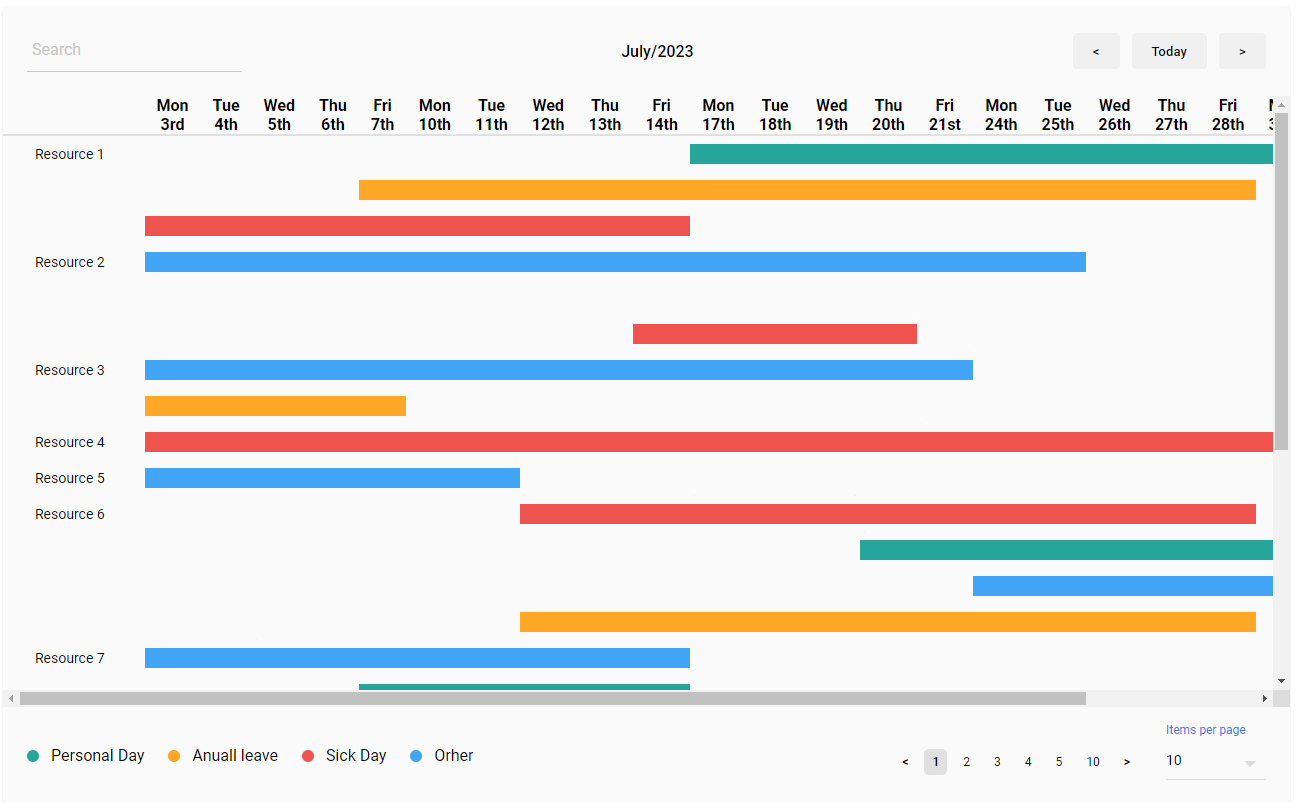
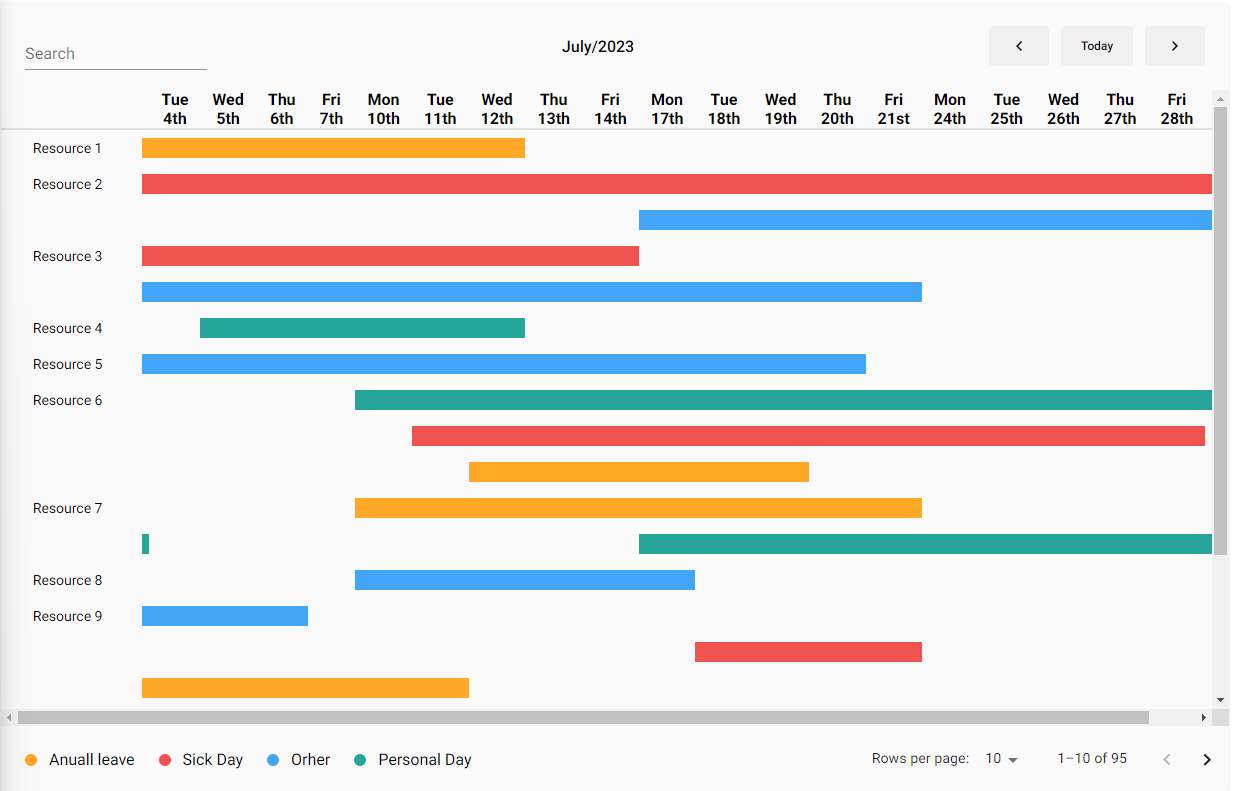
readme

diff --git a/README.md b/README.md
@@ -20,9 +20,16 @@ No dependancies used
 - It is the responsibility of the user to determine how to interact with the data during these events.
 
 ```
+import React, { useMemo, useState } from 'react'
+import { resources } from './data'
+import { MonthYear, EventManager, ClickData, Page, Resource } from './'
+// These components can be anything that you want
+import { TextField } from '@mui/material'
+import { TablePagination } from '@mui/material'
+
 function App() {
   const [page, setPage] = useState<Page>({
-    current: 1,
+    current: 0,
     size: 10,
     count: Math.ceil(resources.length / 10),
     total: resources.length,
@@ -36,8 +43,8 @@ function App() {
     setLoading(true)
     setTimeout(() => {
       const data = resources.slice(
-        (page.current - 1) * page.size,
         page.current * page.size,
+        (page.current + 1) * page.size,
       )
       setData(data)
       setLoading(false)
@@ -56,9 +63,16 @@ function App() {
     console.log(text)
   }
 
-  const handlePageChange = (page: Page) => {
-    setPage(page)
-    console.log(page)
+  const handleChangePage = (
+    event: React.MouseEvent<HTMLButtonElement, MouseEvent> | null,
+    newPage: number,
+  ) => {
+    setPage({ ...page, current: newPage })
+  }
+  const handleChangeRowsPerPage = (
+    e: React.ChangeEvent<HTMLInputElement | HTMLTextAreaElement>,
+  ) => {
+    setPage({ ...page, size: Number(e.target.value) })
   }
 
   return (
@@ -66,7 +80,6 @@ function App() {
       <EventManager
         resources={data}
         tableId={1}
-        page={page}
         search={
           <TextField
             variant='standard'
@@ -74,17 +87,27 @@ function App() {
             onChange={(e) => handleSearch(e.target.value)}
           />
         }
+        pagination={
+          <TablePagination
+            component='div'
+            count={page.total}
+            page={page.current}
+            onPageChange={handleChangePage}
+            rowsPerPage={page.count}
+            onRowsPerPageChange={handleChangeRowsPerPage}
+          />
+        }
         showLegend
         showTooltip
         loading={loading}
-        onPageChange={handlePageChange}
-        onSearch={handleSearch}
         onClick={handleClick}
         onUpdateDate={handleUpdateDate}
       />
     </div>
   )
 }
+
+export default App
 ```
 
 ## Used Types
@@ -145,7 +168,6 @@ handleUpdateDate(data: MonthYear) => void
 <EventManager
   resources={data}
   tableId={1}
-  page={page}
   search={
     <TextField
       variant='standard'
@@ -153,11 +175,19 @@ handleUpdateDate(data: MonthYear) => void
       onChange={(e) => handleSearch(e.target.value)}
     />
   }
+  pagination={
+    <TablePagination
+      component='div'
+      count={page.total}
+      page={page.current}
+      onPageChange={handleChangePage}
+      rowsPerPage={page.count}
+      onRowsPerPageChange={handleChangeRowsPerPage}
+    />
+  }
   showLegend
   showTooltip
   loading={loading}
-  onPageChange={handlePageChange}
-  onSearch={handleSearch}
   onClick={handleClick}
   onUpdateDate={handleUpdateDate}
 />
@@ -165,18 +195,16 @@ handleUpdateDate(data: MonthYear) => void
 
 ```
 Props = {
-resources: Resource[]
-tableId: ID
-page: Page
-hasWeekends?: boolean // default false
-searchable?: boolean // default false
-flat?: boolean // default false
-showLegend?: boolean // default false
-showTooltip?: boolean // default false
-loading?: boolean // default false
-onPageChange: (page: Page) => void
-onSearch?: (text: string) => void
-onClick: (data: ClickData | undefined) => void
-onUpdateDate: (date: MonthYear) => void
+  resources: Resource[]
+  tableId: ID
+  hasWeekends?: boolean // default false
+  flat?: boolean // default false
+  showLegend?: boolean // default false
+  showTooltip?: boolean // default false
+  loading?: boolean // default false
+  search?: ReactElement<HTMLInputElement>
+  pagination?: ReactElement<HTMLDivElement>
+  onClick: (data: ClickData | undefined) => void
+  onUpdateDate: (date: MonthYear) => void
 }
 ```
